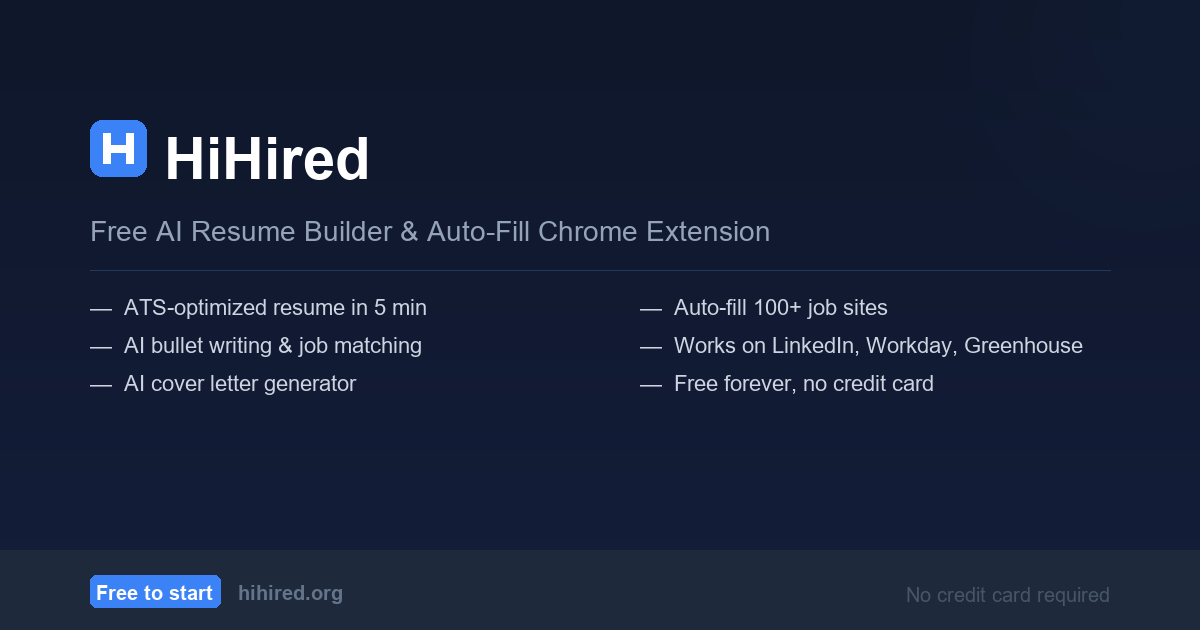
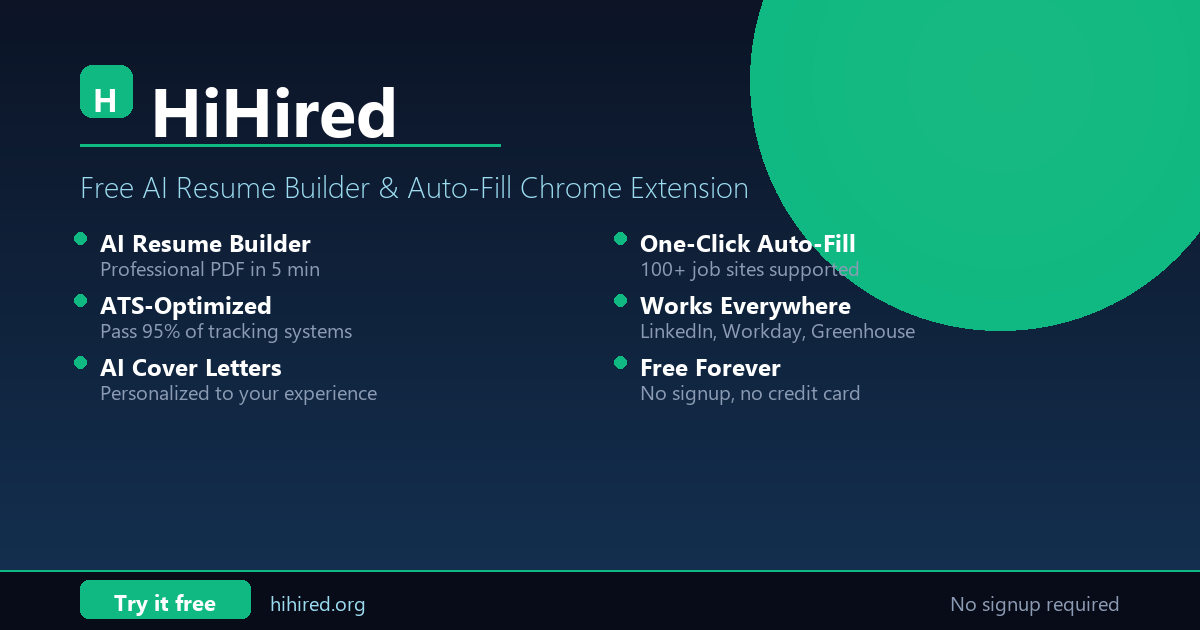
change front page color

diff --git a/resume-frontend/src/components/StepImport.jsx b/resume-frontend/src/components/StepImport.jsx
@@ -14,6 +14,7 @@ const StepImport = ({ onSkip }) => {
   const [historyImportError, setHistoryImportError] = useState('');
   const [historyImportingId, setHistoryImportingId] = useState(null);
   const [conversions, setConversions] = useState([]);
+  const [pasteText, setPasteText] = useState('');
   const fileInputRef = useRef(null);
   const { applyImportedData } = useResume();
   const { triggerFeedbackPrompt } = useFeedback();
@@ -74,6 +75,14 @@ const StepImport = ({ onSkip }) => {
     if (!file || loading) {
       return;
     }
+    importFromFile(file);
+  };
+
+  const handlePasteImport = () => {
+    const trimmed = pasteText.trim();
+    if (!trimmed || loading) return;
+    const blob = new Blob([trimmed], { type: 'text/plain' });
+    const file = new File([blob], 'resume.txt', { type: 'text/plain' });
     importFromFile(file);
   };
 
@@ -258,11 +267,31 @@ const StepImport = ({ onSkip }) => {
       {tab === 'paste' && (
         <div style={{ textAlign: 'center', marginBottom: '2rem' }}>
           <textarea
-            placeholder="Paste your resume text here..."
+            placeholder="Paste your resume text here (from LinkedIn, a Word doc, or anywhere)..."
             rows={8}
+            value={pasteText}
+            onChange={(e) => setPasteText(e.target.value)}
             style={{ width: '100%', maxWidth: 420, marginBottom: '1rem', padding: '0.75rem', borderRadius: '8px', border: '1px solid #cbd5f5' }}
+            disabled={loading}
           />
-          <button type="button" disabled>Import from text (Coming Soon)</button>
+          <div>
+            <button
+              type="button"
+              onClick={handlePasteImport}
+              disabled={loading || !pasteText.trim()}
+              style={{
+                padding: '0.6rem 1.5rem',
+                borderRadius: '8px',
+                background: pasteText.trim() ? '#2563eb' : '#94a3b8',
+                color: '#fff',
+                border: 'none',
+                fontWeight: 600,
+                cursor: pasteText.trim() && !loading ? 'pointer' : 'not-allowed',
+              }}
+            >
+              {loading ? 'Parsing...' : 'Import from text'}
+            </button>
+          </div>
         </div>
       )}
 

diff --git a/resume-frontend/src/components/ChatWidget.jsx b/resume-frontend/src/components/ChatWidget.jsx
@@ -3024,6 +3024,28 @@ const buildSectionResponse = (sectionKey) => {
               </button>
             </div>
           </div>
+          {!user && (
+            <div style={{
+              background: '#fef3c7',
+              borderBottom: '1px solid #fcd34d',
+              padding: '0.6rem 1rem',
+              fontSize: '0.85rem',
+              color: '#92400e',
+              display: 'flex',
+              alignItems: 'center',
+              gap: '0.5rem',
+            }}>
+              <span>Please</span>
+              <button
+                type="button"
+                style={{ color: '#1d4ed8', fontWeight: 600, textDecoration: 'underline', background: 'none', border: 'none', padding: 0, cursor: 'pointer', fontSize: '0.85rem' }}
+                onClick={() => navigate('/login')}
+              >
+                sign in
+              </button>
+              <span>to chat with the AI assistant.</span>
+            </div>
+          )}
           <div className="chat-messages">
             {messages.map((message, index) => {
               const progressInfo = getProgressInfo(message.progress);

diff --git a/resume-frontend/src/components/SimpleHero.css b/resume-frontend/src/components/SimpleHero.css
@@ -44,19 +44,19 @@
   padding: 16px 36px;
   font-size: 17px;
   font-weight: 700;
-  background: #2563eb;
+  background: #f97316;
   color: white;
   border: none;
   border-radius: 12px;
   cursor: pointer;
   transition: all 0.2s ease;
-  box-shadow: 0 4px 14px rgba(37, 99, 235, 0.3);
+  box-shadow: 0 4px 14px rgba(249, 115, 22, 0.3);
 }
 
 .btn-create:hover {
-  background: #1d4ed8;
+  background: #ea580c;
   transform: translateY(-2px);
-  box-shadow: 0 8px 20px rgba(37, 99, 235, 0.35);
+  box-shadow: 0 8px 20px rgba(249, 115, 22, 0.35);
 }
 
 .hero-cta-note {
